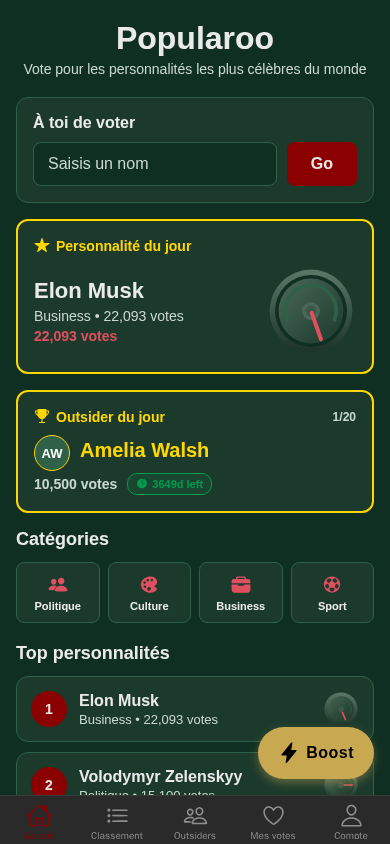
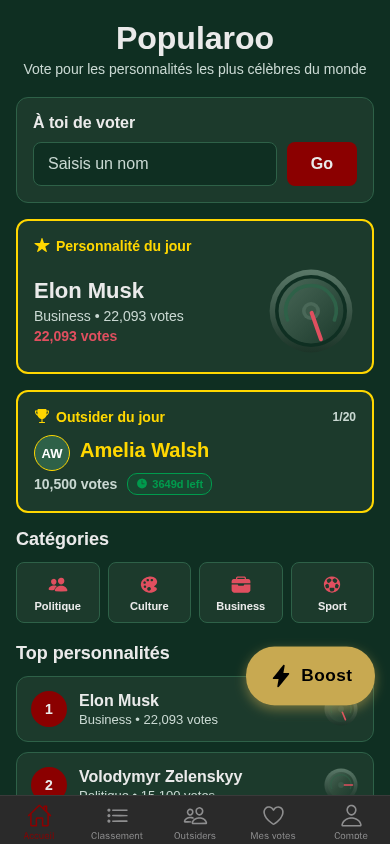
auto-commit for 50c40b72-6295-4083-8b2a-5a33affcc9ad

Changed region(s): [[0.6154, 0.7393, 0.9846, 0.955]]

diff --git a/frontend/app/index.tsx b/frontend/app/index.tsx
@@ -308,6 +308,21 @@ export default function HomeScreen() {
   const [searchName, setSearchName] = useState("");
   const titleTapCount = useRef(0);
   const titleTapTimer = useRef<NodeJS.Timeout | null>(null);
+
+  // FAB pulse animation
+  const fabScale = useRef(new Animated.Value(1)).current;
+  useEffect(() => {
+    const pulse = () => {
+      Animated.sequence([
+        Animated.timing(fabScale, { toValue: 1.08, duration: 600, useNativeDriver: true }),
+        Animated.timing(fabScale, { toValue: 1, duration: 600, useNativeDriver: true }),
+      ]).start();
+    };
+    const interval = setInterval(pulse, 8000);
+    // Initial pulse after 3 seconds
+    const timeout = setTimeout(pulse, 3000);
+    return () => { clearInterval(interval); clearTimeout(timeout); };
+  }, []);
   const fadeAnim = useRef(new Animated.Value(1)).current;
 
   const loadData = async (silent = false) => {
@@ -583,14 +598,16 @@ export default function HomeScreen() {
       </ScrollView>
 
       {/* Floating Boost Button (FAB) */}
-      <TouchableOpacity
-        style={styles.fab}
-        onPress={() => router.push("/premium")}
-        activeOpacity={0.8}
-      >
-        <Ionicons name="flash" size={22} color="#000" />
-        <Text style={styles.fabText}>Boost</Text>
-      </TouchableOpacity>
+      <Animated.View style={[styles.fab, { transform: [{ scale: fabScale }] }]}>
+        <TouchableOpacity
+          style={styles.fabInner}
+          onPress={() => router.push("/premium")}
+          activeOpacity={0.8}
+        >
+          <Ionicons name="flash" size={24} color="#000" />
+          <Text style={styles.fabText}>Boost</Text>
+        </TouchableOpacity>
+      </Animated.View>
     </SafeAreaView>
   );
 }
@@ -774,25 +791,28 @@ const styles = StyleSheet.create({
   // FAB Boost button
   fab: {
     position: 'absolute',
-    bottom: 16,
+    bottom: 90,
     right: 16,
-    flexDirection: 'row',
-    alignItems: 'center',
-    gap: 6,
-    backgroundColor: '#C8A951',
-    paddingHorizontal: 20,
-    paddingVertical: 14,
     borderRadius: 28,
     shadowColor: '#C8A951',
     shadowOffset: { width: 0, height: 4 },
-    shadowOpacity: 0.4,
-    shadowRadius: 8,
-    elevation: 8,
+    shadowOpacity: 0.5,
+    shadowRadius: 12,
+    elevation: 10,
     zIndex: 100,
+  },
+  fabInner: {
+    flexDirection: 'row',
+    alignItems: 'center',
+    gap: 8,
+    backgroundColor: '#C8A951',
+    paddingHorizontal: 22,
+    paddingVertical: 16,
+    borderRadius: 28,
   },
   fabText: {
     color: '#000',
-    fontSize: 16,
+    fontSize: 17,
     fontWeight: '800',
     letterSpacing: 0.5,
   },

diff --git a/frontend/app/account.tsx b/frontend/app/account.tsx
@@ -590,14 +590,6 @@ export default function AccountScreen() {
         <View style={styles.section}>
           <View style={styles.card}>
             <TouchableOpacity
-              style={[styles.menuItem, { borderBottomWidth: 1, borderBottomColor: PALETTE.border }]}
-              onPress={() => router.push("/premium")}
-            >
-              <Ionicons name="flash" size={24} color="#C8A951" />
-              <Text style={styles.menuItemText}>{t("tabs.boost")}</Text>
-              <Ionicons name="chevron-forward" size={20} color={PALETTE.subtext} />
-            </TouchableOpacity>
-            <TouchableOpacity
               style={styles.menuItem}
               onPress={() => router.push("/settings")}
             >
